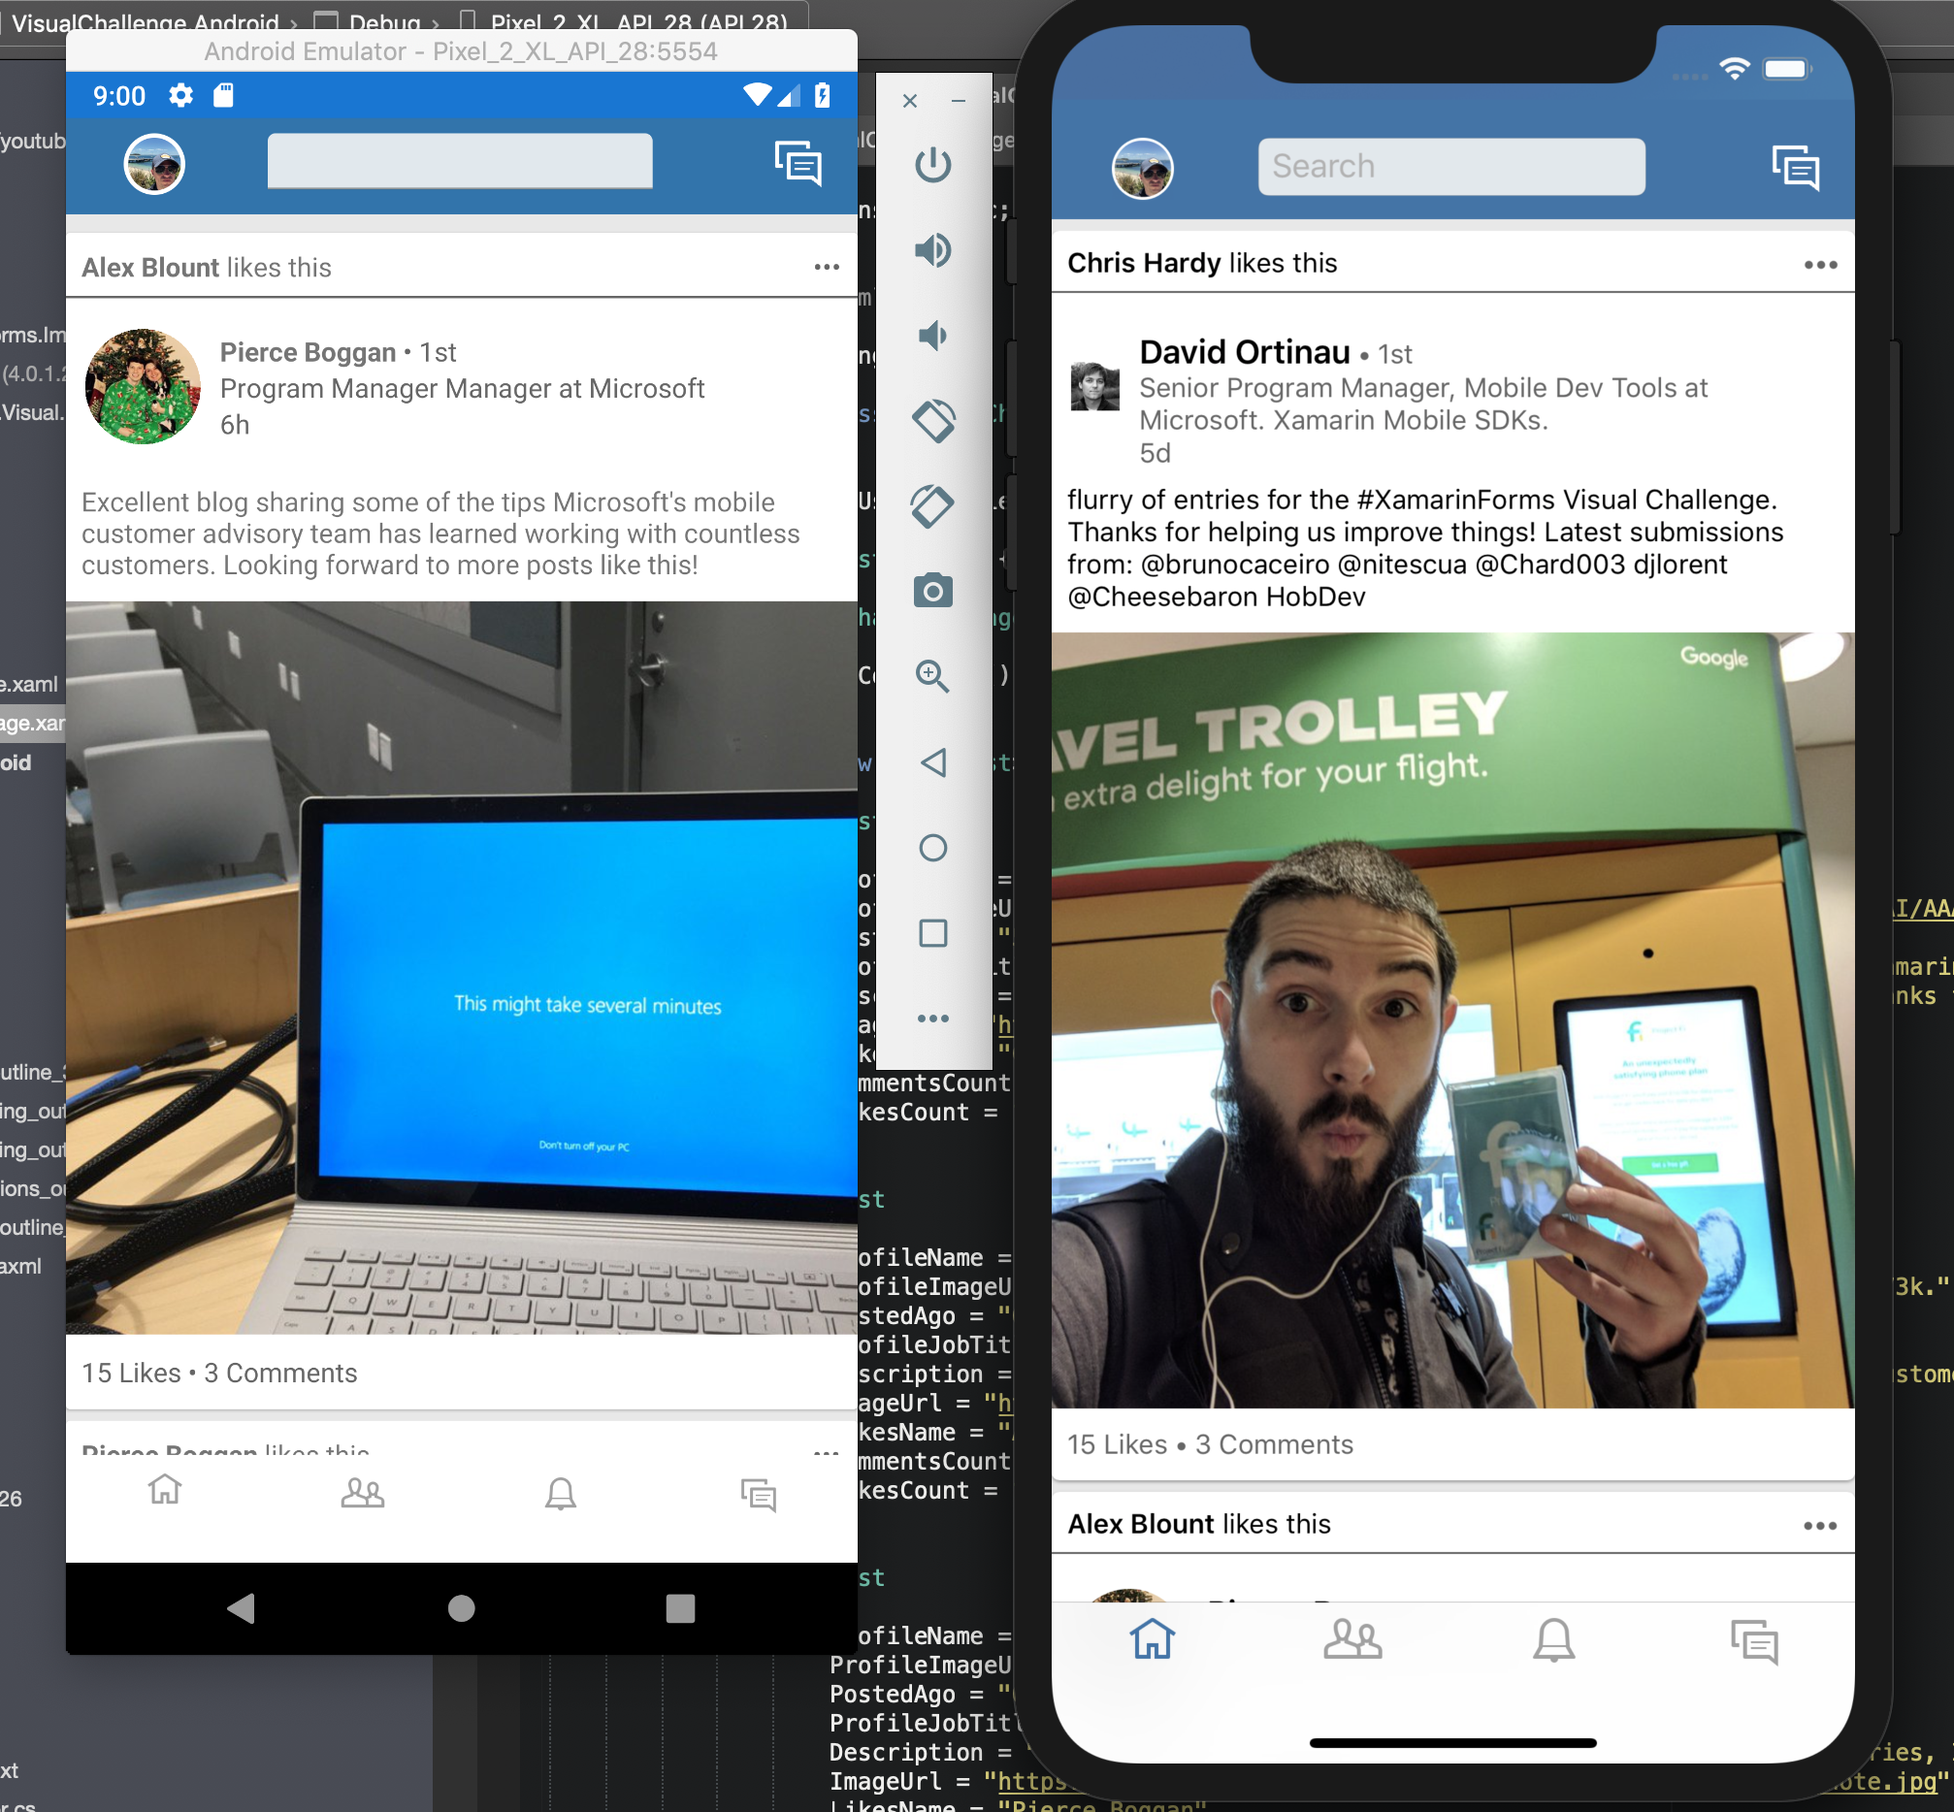
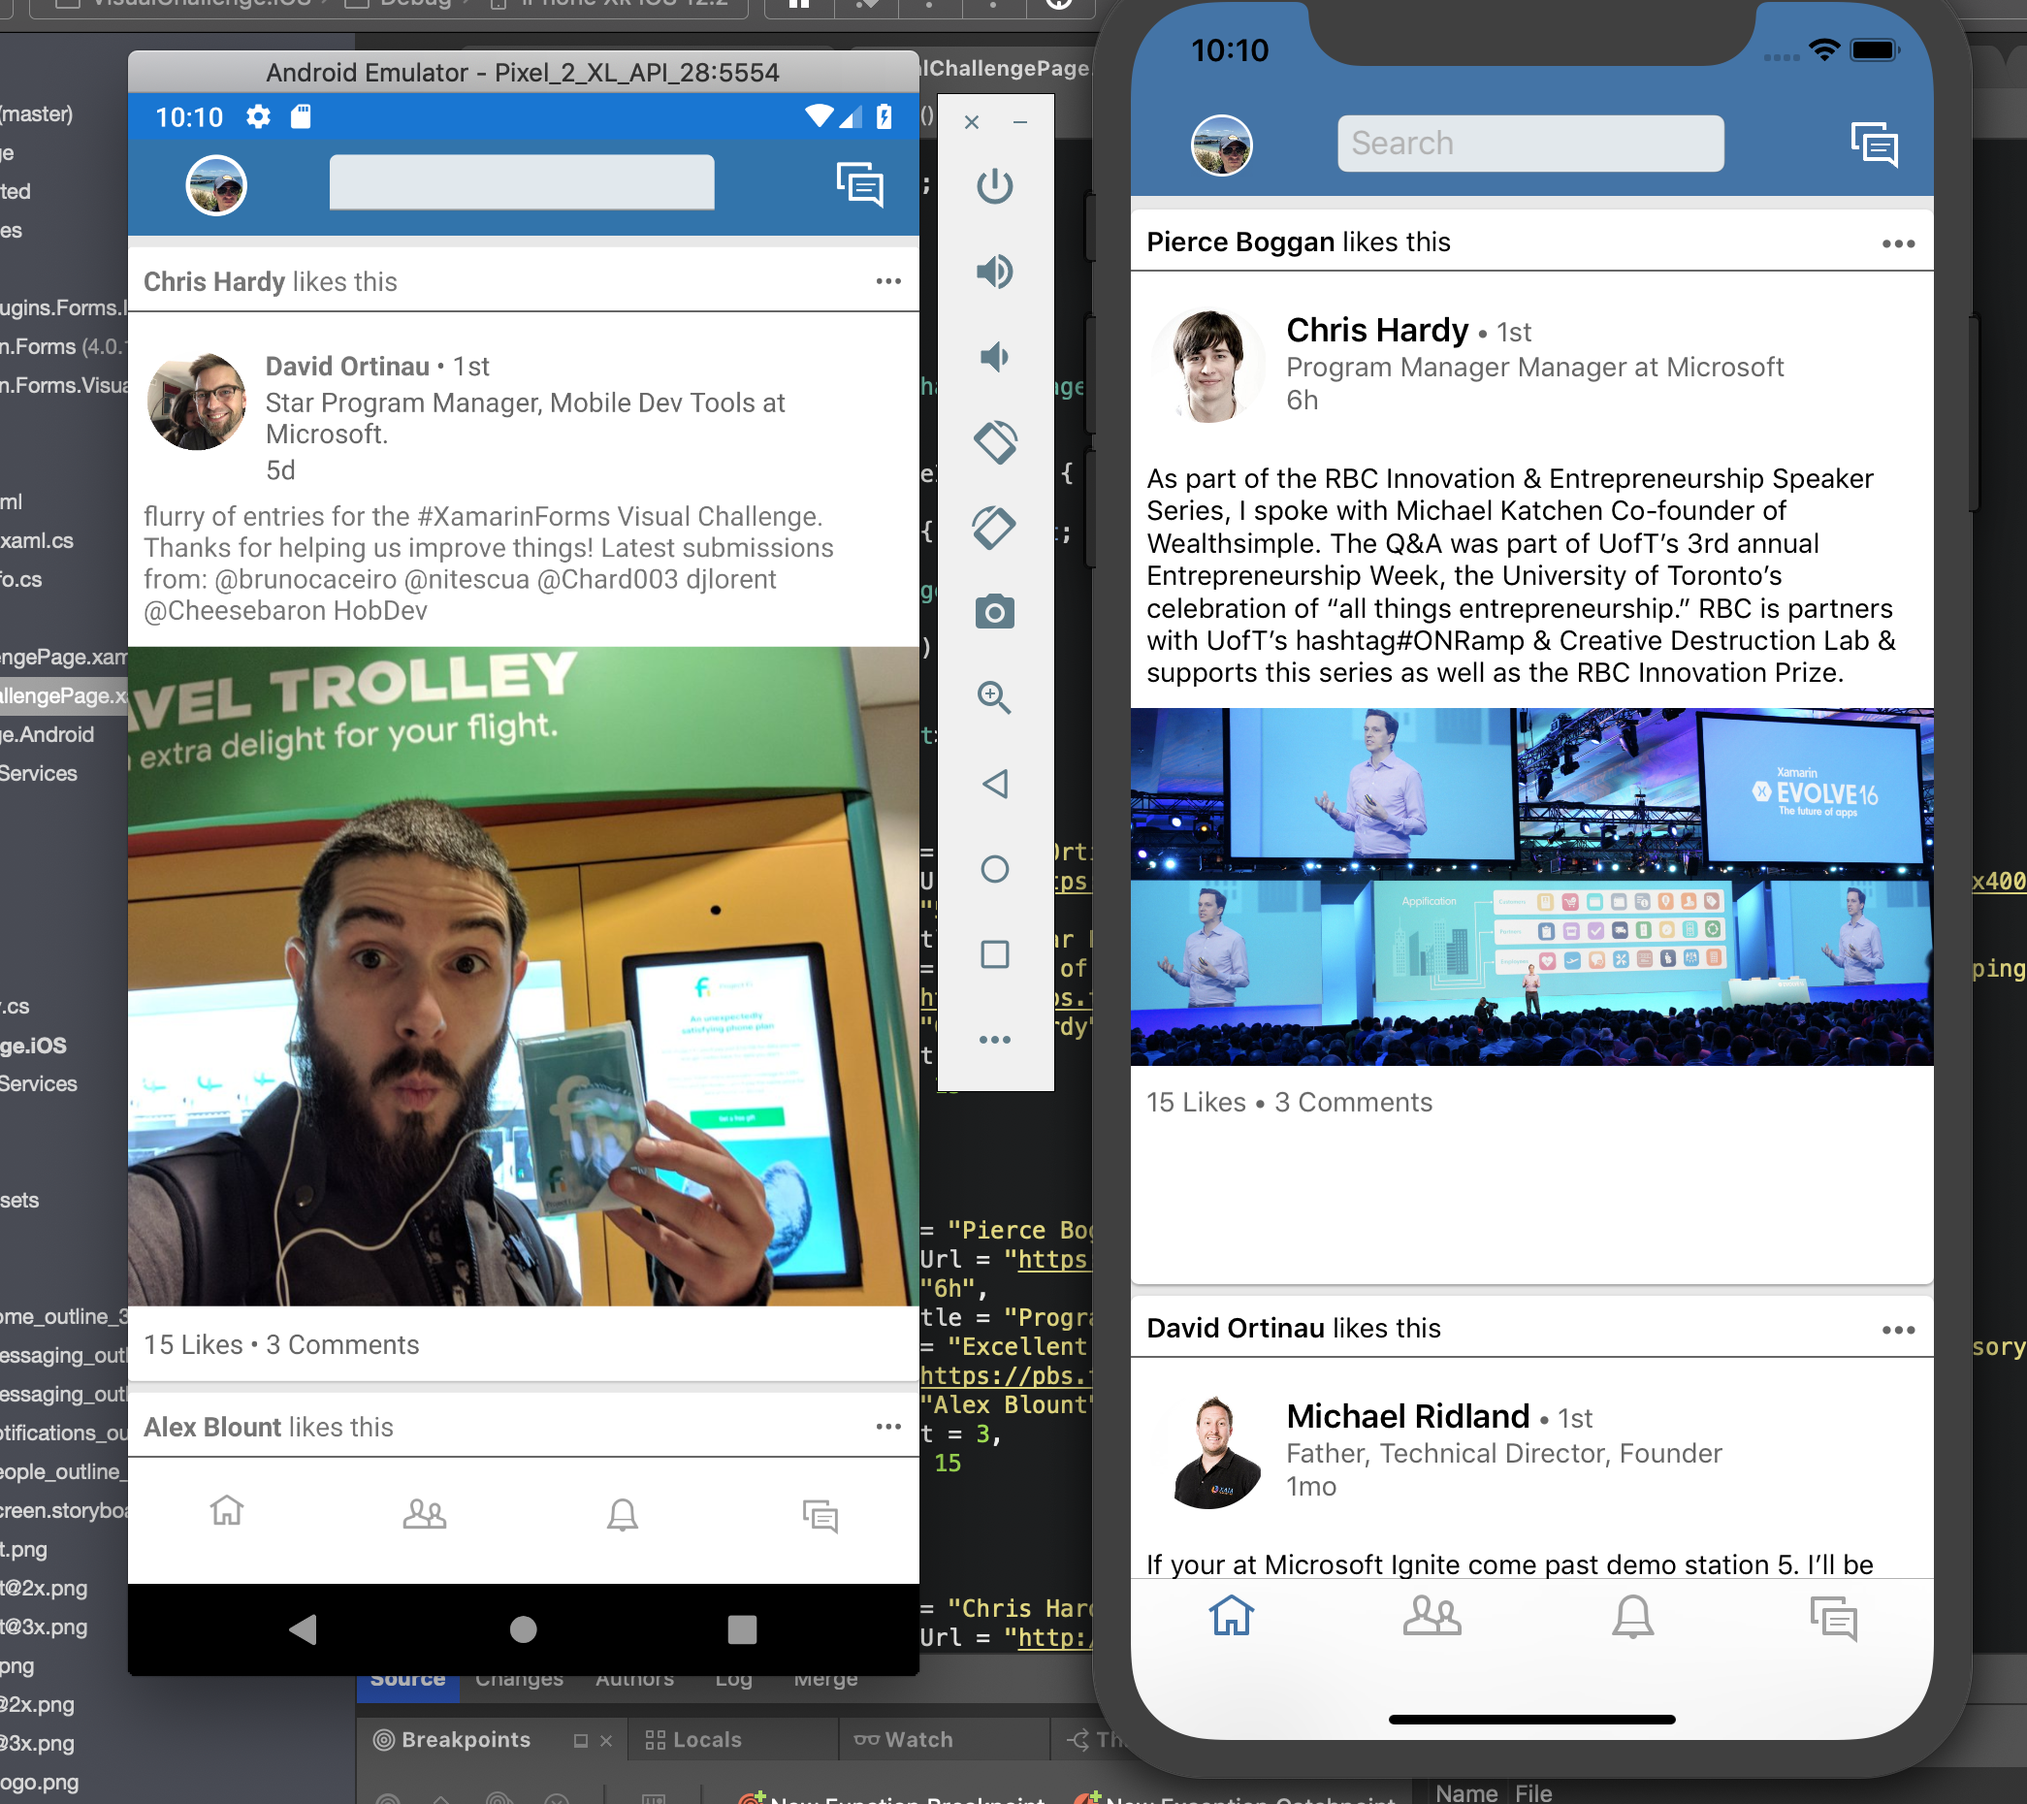
updating screenshot

diff --git a/VisualChallenge/VisualChallenge/VisualChallengePage.xaml.cs b/VisualChallenge/VisualChallenge/VisualChallengePage.xaml.cs
@@ -23,9 +23,9 @@ namespace VisualChallenge
                 new Post
                 {
                     ProfileName = "David Ortinau",
-                    ProfileImageUrl = "https://lh5.googleusercontent.com/-tACrxTCkr4w/AAAAAAAAAAI/AAAAAAAAABw/gQNWYdrs0CE/photo.jpg",
+                    ProfileImageUrl = "https://pbs.twimg.com/profile_images/812310411647205376/gxleSqEg_400x400.jpg",
                     PostedAgo = "5d",
-                    ProfileJobTitle = "Senior Program Manager, Mobile Dev Tools at Microsoft. Xamarin Mobile SDKs.",
+                    ProfileJobTitle = "Star Program Manager, Mobile Dev Tools at Microsoft.",
                     Description = "flurry of entries for the #XamarinForms Visual Challenge. Thanks for helping us improve things! Latest submissions from: @brunocaceiro @nitescua @Chard003 djlorent @Cheesebaron HobDev",
                     ImageUrl = "https://pbs.twimg.com/media/DYGwImfVAAE1cHJ.jpg",
                     LikesName = "Chris Hardy",
